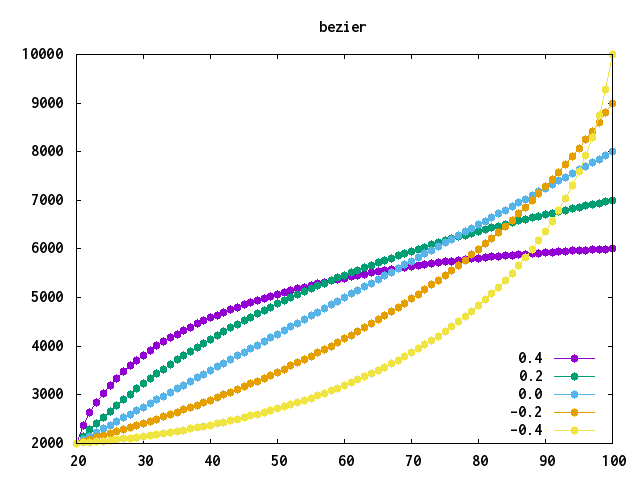
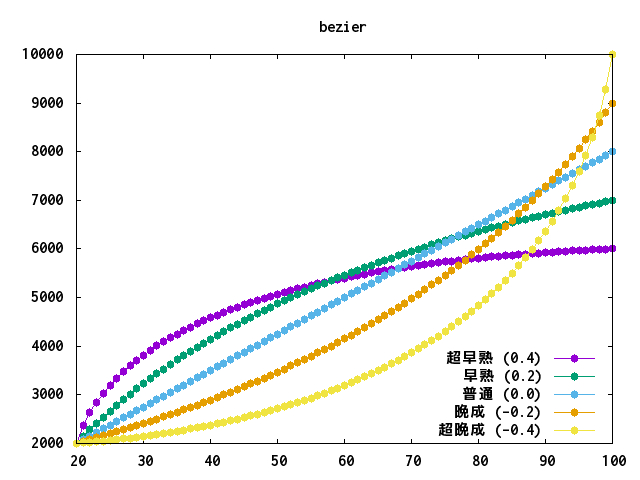
サンプルグラフをわかりやすくした

Changed region(s): [[0.6875, 0.7188, 0.8438, 0.9062]]

diff --git a/examples/0100_example.rb b/examples/0100_example.rb
@@ -6,11 +6,11 @@ level = 20..100
 attack_base = 2000
 
 patterns = []
-patterns << {:pull =>  0.4, :attack => (attack_base..10000 - 1000 * 4)}
-patterns << {:pull =>  0.2, :attack => (attack_base..10000 - 1000 * 3)}
-patterns << {:pull =>  0.0, :attack => (attack_base..10000 - 1000 * 2)}
-patterns << {:pull => -0.2, :attack => (attack_base..10000 - 1000 * 1)}
-patterns << {:pull => -0.4, :attack => (attack_base..10000 - 1000 * 0)}
+patterns << {:name => "超早熟", :pull =>  0.4, :attack => (attack_base..10000 - 1000 * 4)}
+patterns << {:name => "早熟",   :pull =>  0.2, :attack => (attack_base..10000 - 1000 * 3)}
+patterns << {:name => "普通",   :pull =>  0.0, :attack => (attack_base..10000 - 1000 * 2)}
+patterns << {:name => "晩成",   :pull => -0.2, :attack => (attack_base..10000 - 1000 * 1)}
+patterns << {:name => "超晩成", :pull => -0.4, :attack => (attack_base..10000 - 1000 * 0)}
 
 list = patterns.collect {|e| {:records => level.collect{|x| {:x => x, :y => Equation::LinearCurve._create(level, e[:attack], e).y_by_x(x)} }}}
 Equation::Base.file_output(list, :title => "linear", :filename => "linear_curve.png")
@@ -18,7 +18,7 @@ Equation::Base.file_output(list, :title => "linear", :filename => "linear_curve.
 list = patterns.collect {|e| {:records => level.collect{|x| {:x => x, :y => Equation::ParabolaCurve._create(level, e[:attack], e).y_by_x(x)} }}}
 Equation::Base.file_output(list, :title => "parabola", :filename => "parabola_curve.png")
 
-list = patterns.collect{|e|{:name => e[:pull], :records => level.collect{|x| {:x => x, :y => Equation::BezierCurve._create(level, e[:attack], e).y_by_x(x)} }}}
+list = patterns.collect{|e|{:name => "#{e[:name]} (#{e[:pull]})", :records => level.collect{|x| {:x => x, :y => Equation::BezierCurve._create(level, e[:attack], e).y_by_x(x)} }}}
 Equation::Base.file_output(list, :title => "bezier", :filename => "bezier_curve.png")
 # >> writing this to gnuplot:
 # >> set terminal png font 'Ricty-Bold.ttf'
